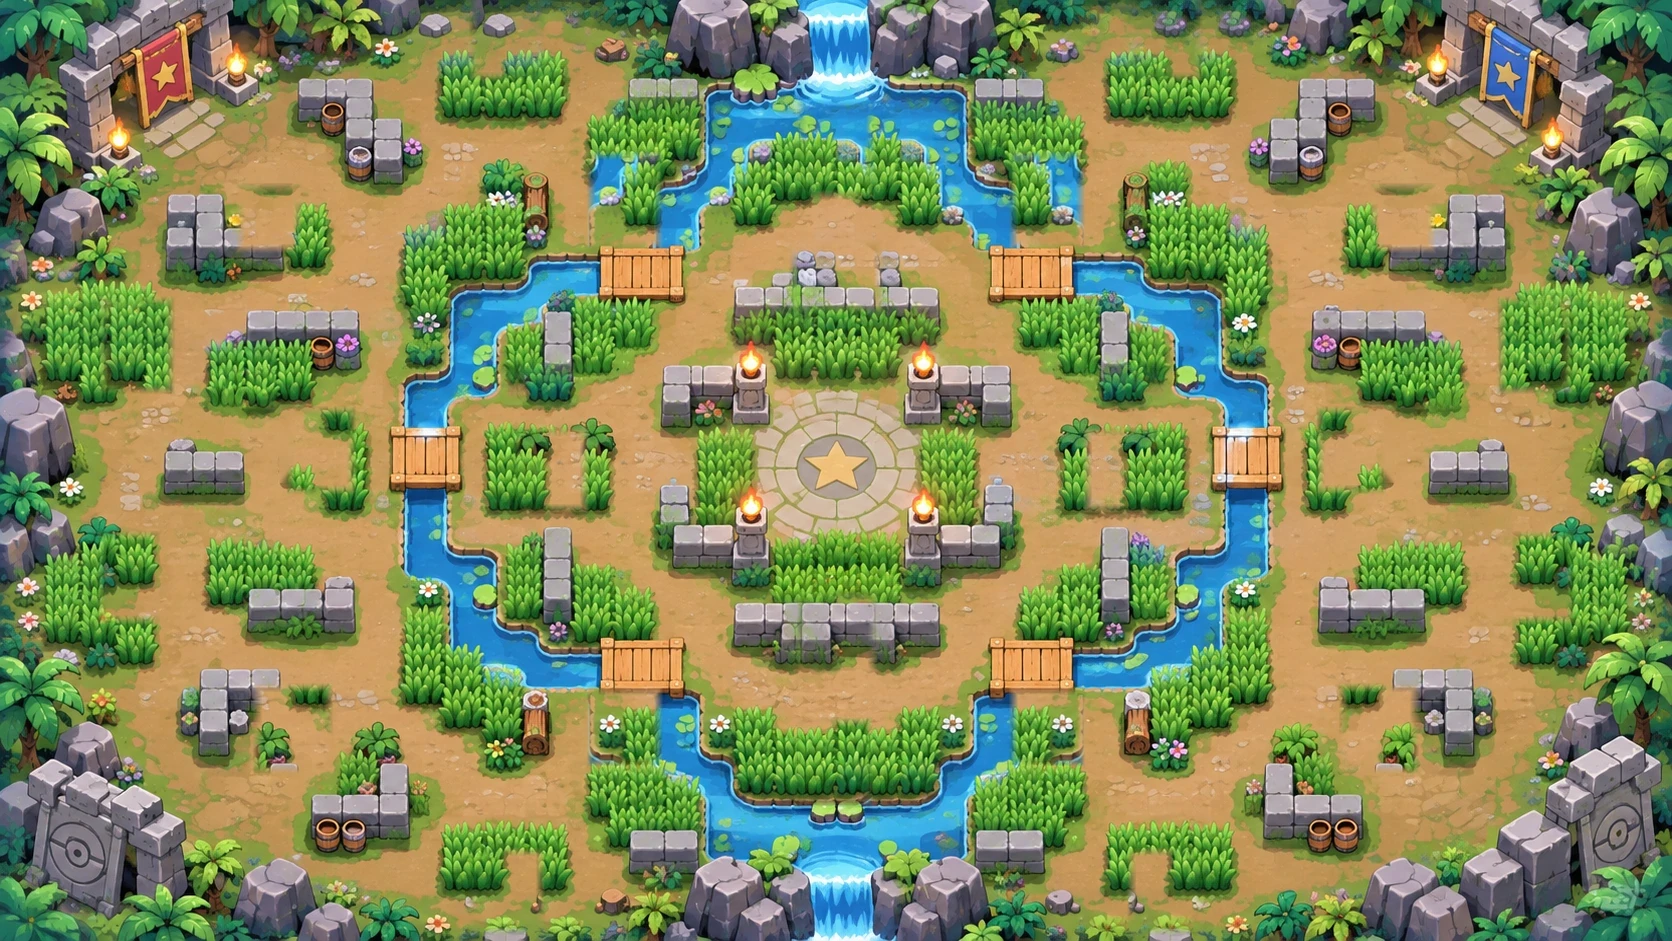
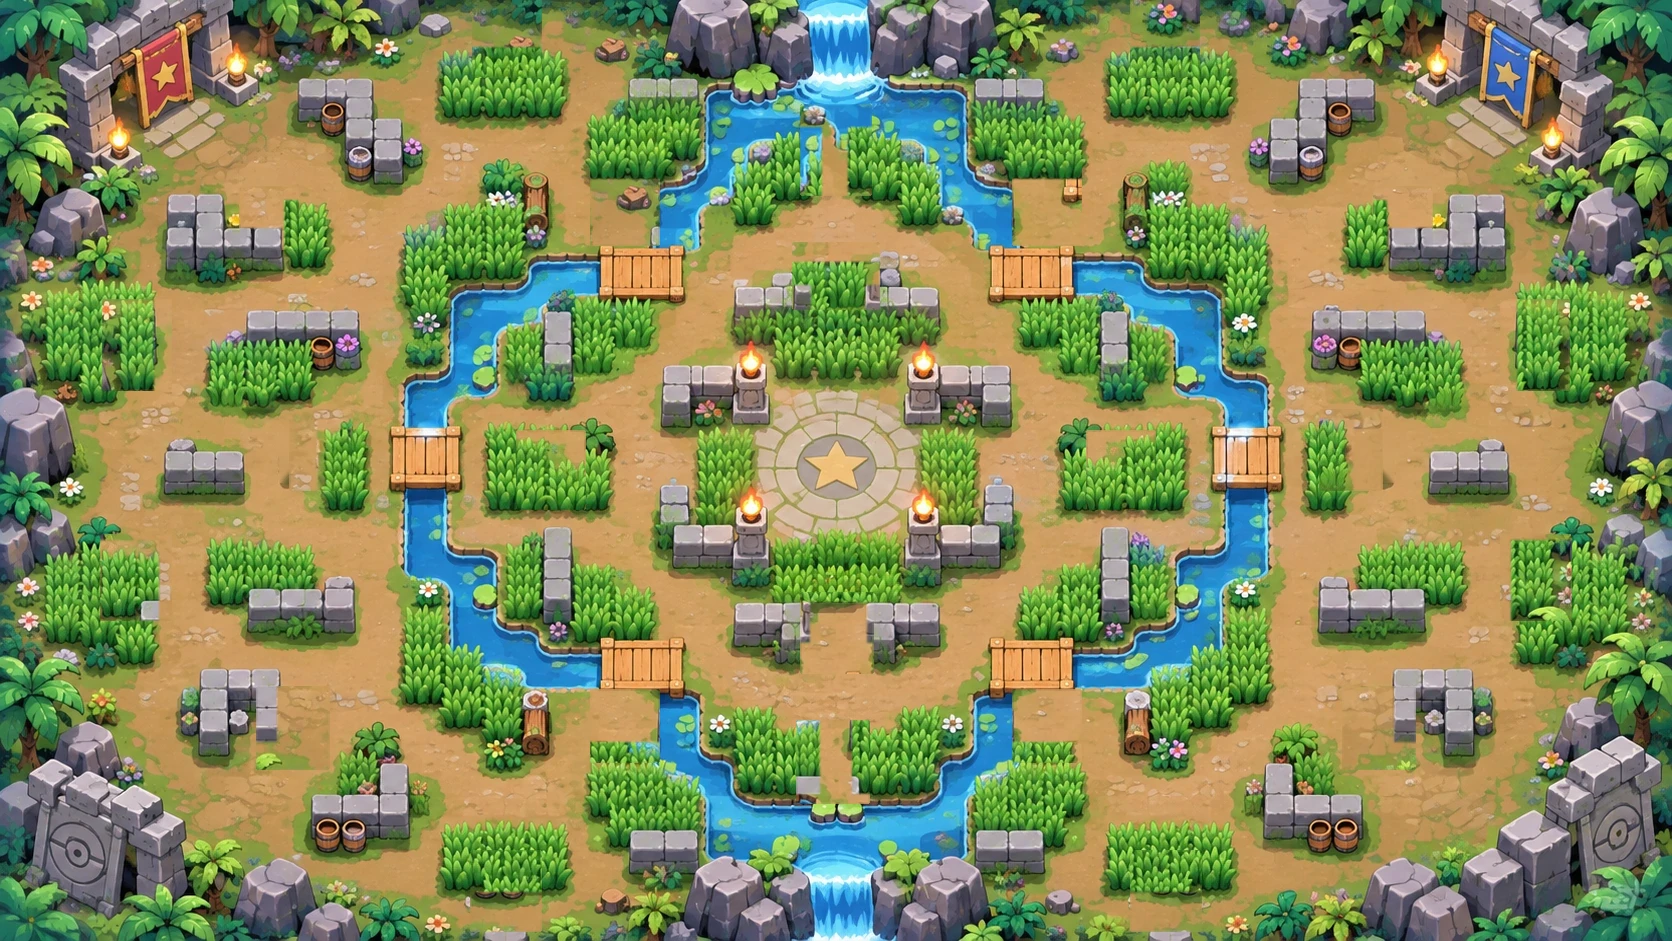
맵 얼룩 다시 그림(구조물·충돌 유지, 돌담/풀/흙 종류별로), 모바일 길게 누르기·확대·선택·콜아웃 막기, 기섭 추적 하트 2발, PvE 적 풀숲 무적 버그 수정, 보스 5회 평균 측정, 버그 목록
Claude-Session: https://claude.ai/code/session_01RNFJUrew5q1sX3kwPwRrNZ

diff --git a/js/ui/touch.js b/js/ui/touch.js
@@ -352,11 +352,26 @@ document.querySelector("#charApply").onclick = () => {
 };
 
 // 길게 누르기 메뉴(복사·붙여넣기·이미지 저장)와 텍스트 선택 막기. 메뉴 패널의 선택 상자는 그대로 동작
-const allowNative = (t) => t && t.closest && t.closest("select, option, input, #menuPanel");
-for (const ev of ["contextmenu", "selectstart"]) {
+const allowNative = (t) => t && t.closest && t.closest("select, option, input, textarea, #menuPanel");
+const inGameArea = (t) => t && t.closest && t.closest("#arena, #touch");
+for (const ev of ["contextmenu", "selectstart", "dragstart"]) {
   document.addEventListener(ev, (e) => {
-    if (document.body.classList.contains("mobile") && !allowNative(e.target)) e.preventDefault();
+    if ((document.body.classList.contains("mobile") || inGameArea(e.target)) && !allowNative(e.target)) e.preventDefault();
   });
+}
+// iOS Safari: 핀치 확대 제스처 (viewport 설정을 무시하므로 직접 막음)
+for (const ev of ["gesturestart", "gesturechange", "gestureend"]) document.addEventListener(ev, (e) => e.preventDefault(), { passive: false });
+// 두 번 탭 확대 (iOS 일부 버전은 touch-action 만으로 안 막힘)
+document.addEventListener("dblclick", (e) => {
+  if (inGameArea(e.target) && !allowNative(e.target)) e.preventDefault();
+}, { passive: false });
+// 조작 버튼·조이스틱·캔버스: 터치 기본 동작(길게 누르기 메뉴·돋보기·스크롤·확대) 막기. 포인터 이벤트(조작)는 그대로 옴
+const isControl = (t) => t && t.closest && t.closest("#touch button, #touch .stick, #arena canvas");
+for (const ev of ["touchstart", "touchmove"]) {
+  document.addEventListener(ev, (e) => {
+    if (isControl(e.target) && e.cancelable) e.preventDefault();
+    else if (ev === "touchmove" && e.touches.length > 1 && e.cancelable) e.preventDefault(); // 두 손가락 확대
+  }, { passive: false });
 }
 
 // 수류탄 버튼 (소모품, 최대 3개)

diff --git a/css/game.css b/css/game.css
@@ -400,3 +400,17 @@ body.mobile #skillBar, body.lobbyOpen #skillBar, body.titleOpen #skillBar { disp
 #touch #ultBtn.ready { background: radial-gradient(circle at 50% 45%, #7a3fe0 0 58%, transparent 60%), conic-gradient(#ffd23f 100%, #ffd23f 0); box-shadow: 0 0 16px #ffd23f, 0 0 4px #fff; animation: ult-ready 1s ease-in-out infinite; }
 @keyframes ult-ready { 50% { box-shadow: 0 0 26px #ffd23f, 0 0 8px #fff; } }
 #touch #summonBtn, #touch #bearHeal { white-space: pre-line; line-height: 1.15; }
+
+/* ===== 게임 조작 영역: 브라우저 기본 동작 막기 (iOS Safari · Android Chrome) =====
+   - 두 번 탭 확대·핀치 확대: touch-action (조작부 none, 나머지 manipulation) + iOS gesture* 이벤트 (js/ui/touch.js)
+   - 텍스트 선택·복사 메뉴·길게 누르기 콜아웃·이미지 저장/끌기: user-select, -webkit-touch-callout, -webkit-user-drag
+   - 스크롤·당겨서 새로고침·튕김: overscroll-behavior + 조작부 touchmove 기본 동작 막기 */
+html, body { touch-action: manipulation; overscroll-behavior: none; -webkit-text-size-adjust: 100%; }
+#arena, #arena canvas, #touch, #touch * {
+  -webkit-user-select: none;
+  user-select: none;
+  -webkit-touch-callout: none;
+  -webkit-tap-highlight-color: transparent;
+}
+#arena canvas, #touch, #touch button, #touch .stick { touch-action: none; }
+#arena img, #touch img, .btn img { -webkit-user-drag: none; user-drag: none; -webkit-touch-callout: none; pointer-events: none; }

diff --git a/js/data/skills.js b/js/data/skills.js
@@ -38,7 +38,7 @@ const SKILL_DATA = {
   runner: { // 기섭
     q: { name: "나 좀 봐라!", cd: 6, dur: 2, cost: 50, speed: 1.6, aim: "none", text: "자신감 게이지 {cost} 사용, {dur}초간 이동속도 ×{speed}" },
     e: { name: "비켜 내가 간다", cd: 8, dmg: 400, dmgRun: 600, dashT: 0.22, range: 124, aim: "dir", move: true, preview: "line", width: 76, text: "돌진 태클 {dmg} 피해와 넉백 (질주 중 {dmgRun}), 벽에 부딪히면 멈춤" },
-    r: { name: "나란 남자", pose: 0.6, dur: 5, tick: 0.3, hearts: 6, dmg: 90, slow: 1, range: 300, speed: 420, homing: 1, homeTurn: 2.2, homeRange: 320, aim: "none", text: "하트 포즈 후 {dur}초간 사방으로 하트 발사 (매번 {homing}발은 가까운 적을 약하게 추적), 한 발 {dmg} 피해와 둔화 (이동·공격 가능)" },
+    r: { name: "나란 남자", pose: 0.6, dur: 5, tick: 0.3, hearts: 6, dmg: 90, slow: 1, range: 300, speed: 420, homing: 2, homeTurn: 2.2, homeRange: 320, aim: "none", text: "하트 포즈 후 {dur}초간 사방으로 하트 발사 (매번 {homing}발은 가까운 적을 약하게 추적), 한 발 {dmg} 피해와 둔화 (이동·공격 가능)" },
     passive: { name: "역시 나야", per: 6, max: 100, text: "{per}px 이동할 때마다 자신감 게이지 1 충전 (최대 {max})" },
   },
   octo: { // 상훈

diff --git a/js/engine/world.js b/js/engine/world.js
@@ -29,7 +29,8 @@ const inBush = (a) => {
   return a._bush;
 };
 // 보임(자동 조준·자동 타겟·화면 표시): 은신 중이면 가까워도 안 보임 (풀숲은 예전처럼 75 이내·노출 시 보임)
-const seenIgnoringStealth = (a, b) => !b.max || !(a.ink > 0 && dist(a, b) > 110) && ((!inBush(b) || inBush(a)) || dist(a, b) < 75 || b.reveal > 0);
+// PvE 적(웨이브·무한 생존 몬스터)은 풀숲에 숨지 않음: 화면에 그려지므로 조준·피격도 되어야 함 (예전엔 풀숲 속 보스가 투사체에 안 맞음)
+const seenIgnoringStealth = (a, b) => !b.max || !(a.ink > 0 && dist(a, b) > 110) && (b.mob || (!inBush(b) || inBush(a)) || dist(a, b) < 75 || b.reveal > 0);
 const visible = (a, b) => !b.max || !(b.stealth > 0) && seenIgnoringStealth(a, b);
 // 성능: 임시 배열 없이 같은 순서로 5점 검사
 const terrain = (x, y, r = 16) => wet(x, y) || wet(x + r, y) || wet(x - r, y) || wet(x, y + r) || wet(x, y - r);

diff --git a/index.html b/index.html
@@ -2,7 +2,7 @@
 <html lang="ko">
 <head>
   <meta charset="utf-8">
-  <meta name="viewport" content="width=device-width, initial-scale=1, maximum-scale=1, viewport-fit=cover">
+  <meta name="viewport" content="width=device-width, initial-scale=1, maximum-scale=1, user-scalable=no, viewport-fit=cover">
   <title>Battle Lab</title>
   <link rel="preconnect" href="https://fonts.googleapis.com">
   <link rel="stylesheet" href="https://fonts.googleapis.com/css2?family=Jua&display=swap">

diff --git a/js/data/pokemon.js b/js/data/pokemon.js
@@ -86,5 +86,5 @@ for (const d of PET_DEX) {
 // 버튼·카드용: 그림이 있으면 <img>, 없으면 아이콘 글자
 function petIconHTML(id, cls = "pet-art") {
   const im = petArt[id];
-  return im ? `<img class="${cls}" src="${im.src}" alt="">` : `<strong>${mons[id][1]}</strong>`;
+  return im ? `<img class="${cls}" src="${im.src}" alt="" draggable="false">` : `<strong>${mons[id][1]}</strong>`;
 }

diff --git a/tests/mobile_input.py b/tests/mobile_input.py
@@ -1,0 +1,53 @@
+"""모바일 조작 영역 브라우저 기본 동작 차단 테스트 (Chromium 모바일 에뮬레이션)
+길게 누르기(1.5초) 연속 공격 중: 텍스트 선택 없음, contextmenu/selectstart/dragstart 막힘, 확대 없음, 조작 정상"""
+import pathlib, sys
+from playwright.sync_api import sync_playwright
+f = sys.argv[1] if len(sys.argv) > 1 else 'index.html'
+url = pathlib.Path(f).resolve().as_uri()
+fails = 0
+def ok(n, c, x=''):
+    global fails
+    fails += not c
+    print(('PASS ' if c else 'FAIL ') + n, x)
+with sync_playwright() as pw:
+    b = pw.chromium.launch(executable_path='/usr/bin/google-chrome')
+    for name, vp in [('가로', (844, 390)), ('세로회전', (390, 844))]:
+        pg = b.new_context(viewport={'width': vp[0], 'height': vp[1]}, has_touch=True, is_mobile=True, device_scale_factor=2).new_page()
+        errs = []
+        pg.on('pageerror', lambda e: errs.append(str(e)))
+        pg.goto(url); pg.wait_for_timeout(1500); pg.evaluate('closeTitle()')
+        pg.evaluate('openLobby(); lobbySel="suit"; document.querySelector("#lobbyStart").click()'); pg.wait_for_timeout(300)
+        pg.evaluate('god=true; window.__ev={}; for (const ev of ["contextmenu","selectstart","dragstart","dblclick"]) document.addEventListener(ev, (e)=>{ __ev[ev]=e.defaultPrevented; }, {capture:false});')
+        cdp = pg.context.new_cdp_session(pg)
+        def touch(t, pts): cdp.send('Input.dispatchTouchEvent', {'type': t, 'touchPoints': pts})
+        c = pg.evaluate('(()=>{let r=document.querySelector("#atk").getBoundingClientRect();return [r.x+r.width/2,r.y+r.height/2]})()')
+        mv = pg.evaluate('(()=>{let r=document.querySelector("#mv").getBoundingClientRect();return [r.x+r.width/2,r.y+r.height/2]})()')
+        # 1) 공격 버튼 1.5초 누르기 + 동시에 이동 (멀티터치)
+        touch('touchStart', [{'x': c[0], 'y': c[1], 'id': 1}])
+        touch('touchStart', [{'x': c[0], 'y': c[1], 'id': 1}, {'x': mv[0], 'y': mv[1], 'id': 2}])
+        touch('touchMove', [{'x': c[0], 'y': c[1], 'id': 1}, {'x': mv[0] + 30, 'y': mv[1], 'id': 2}])
+        x0 = pg.evaluate('[p.x,p.y]'); pg.wait_for_timeout(1500)
+        st = pg.evaluate('[aiming, window.getSelection().toString(), visualViewport.scale, [p.x,p.y]]')
+        # 길게 누를 때 브라우저가 보내는 contextmenu 를 직접 쏴서 막히는지
+        cm = pg.evaluate('(()=>{const e=new MouseEvent("contextmenu",{bubbles:true,cancelable:true}); document.querySelector("#atk").dispatchEvent(e); return e.defaultPrevented})()')
+        ss = pg.evaluate('(()=>{const e=new Event("selectstart",{bubbles:true,cancelable:true}); document.querySelector("#atk").dispatchEvent(e); return e.defaultPrevented})()')
+        dg = pg.evaluate('(()=>{const e=new Event("dragstart",{bubbles:true,cancelable:true}); (document.querySelector("#touch img")||document.querySelector("#atk")).dispatchEvent(e); return e.defaultPrevented})()')
+        db = pg.evaluate('(()=>{const e=new MouseEvent("dblclick",{bubbles:true,cancelable:true}); document.querySelector("#atk").dispatchEvent(e); return e.defaultPrevented})()')
+        ts = pg.evaluate('(()=>{const t=new Touch({identifier:9,target:document.querySelector("#atk"),clientX:1,clientY:1}); const e=new TouchEvent("touchstart",{bubbles:true,cancelable:true,touches:[t],changedTouches:[t]}); document.querySelector("#atk").dispatchEvent(e); return e.defaultPrevented})()')
+        touch('touchEnd', [])
+        css = pg.evaluate('(()=>{const s=getComputedStyle(document.querySelector("#atk")); return [s.userSelect||s.webkitUserSelect, s.webkitTouchCallout, s.touchAction]})()')
+        ok(f'[{name}] 공격 길게 누르기: 연속 공격 유지 + 이동 동시 (멀티터치)', st[0] and st[3] != x0, st)
+        ok(f'[{name}] 텍스트 선택 없음 / 화면 확대 없음', st[1] == '' and st[2] == 1, st)
+        ok(f'[{name}] 길게 누르기 메뉴·선택 시작·이미지 끌기·두 번 탭 확대 막힘', cm and ss and dg and db, (cm, ss, dg, db))
+        ok(f'[{name}] 조작 버튼 touchstart 기본 동작 막힘 (iOS 콜아웃·돋보기)', ts)
+        ok(f'[{name}] CSS: user-select none, touch-callout none, touch-action none', css[0] == 'none' and css[2] == 'none', css)
+        # 2) 드래그 조준은 그대로
+        touch('touchStart', [{'x': c[0], 'y': c[1], 'id': 1}]); touch('touchMove', [{'x': c[0] - 50, 'y': c[1], 'id': 1}]); pg.wait_for_timeout(80)
+        aim = pg.evaluate('!!manualAim && !manualAim.cancel'); touch('touchEnd', []); pg.wait_for_timeout(50)
+        ok(f'[{name}] 끌어서 직접 조준 정상', aim)
+        # 3) 패널 스크롤은 막지 않음 (싱글 미션 목록)
+        pg.evaluate('openLobby(); openSinglePanel()'); pg.wait_for_timeout(200)
+        ok(f'[{name}] 메뉴 패널은 기본 스크롤 허용(조작부만 막음)', pg.evaluate('(()=>{const t=new Touch({identifier:8,target:document.querySelector("#missionList"),clientX:1,clientY:1}); const e=new TouchEvent("touchmove",{bubbles:true,cancelable:true,touches:[t],changedTouches:[t]}); document.querySelector("#missionList").dispatchEvent(e); return !e.defaultPrevented})()'))
+        ok(f'[{name}] 에러 없음', not errs, errs)
+    b.close()
+print('ALL PASS' if not fails else f'{fails} FAIL')

diff --git a/tools/map_smudge_fix.py b/tools/map_smudge_fix.py
@@ -1,0 +1,68 @@
+"""맵 그림의 흐릿한 얼룩(상자를 지운 자국) 24곳을 선명하게 다시 그림.
+원본: docs/art_backup/jungle_before_smudge_fix.webp → assets/maps/jungle.webp
+얼룩 안 픽셀마다 무엇이어야 하는지 정함: 충돌 벽 칸 = 돌담 / 풀숲 칸 = 풀 / 나머지 = 흙
+→ 종류별로, 얼룩 밖의 같은 종류 픽셀만 있는 근처 자리에서 무늬를 가져와 채움 (경계가 가장 잘 이어지는 자리)
+구조물 위치·크기·충돌 판정은 바꾸지 않음."""
+import json, re, sys
+import numpy as np, cv2
+ROOT = __import__('pathlib').Path(__file__).resolve().parent.parent
+src = sys.argv[1] if len(sys.argv) > 1 else str(ROOT / 'docs/art_backup/jungle_before_smudge_fix.webp')
+dst = sys.argv[2] if len(sys.argv) > 2 else str(ROOT / 'assets/maps/jungle.webp')
+im = cv2.imread(src).astype(np.float32); H, W = im.shape[:2]
+mp = (ROOT / 'js/data/maps/jungle.js').read_text()
+WW, WH = int(re.search(r'width:\s*(\d+)', mp).group(1)), int(re.search(r'height:\s*(\d+)', mp).group(1))
+sx, sy = W / WW, H / WH
+walls = json.loads(re.search(r'walls:\s*(\[\[.*?\]\])', mp, re.S).group(1))
+bushes = json.loads(re.search(r'bushes:\s*(\[\[.*?\]\])', mp, re.S).group(1))
+cls = np.zeros((H, W), np.uint8)  # 0 흙, 1 풀, 2 돌담
+for x, y, w, h in bushes: cls[int(y*sy):int((y+h)*sy), int(x*sx):int((x+w)*sx)] = 1
+for x, y, w, h in walls: cls[int(y*sy):int((y+h)*sy), int(x*sx):int((x+w)*sx)] = 2
+# 실제 색으로 보정: 풀숲 칸 안이라도 흙색이면 흙 (칸이 넉넉하게 잡혀 있으므로)
+hsv = cv2.cvtColor(im.astype(np.uint8), cv2.COLOR_BGR2HSV).astype(int)
+green = (hsv[..., 0] > 28) & (hsv[..., 0] < 80) & (hsv[..., 1] > 90)
+L = [(478,0,58,72),(245,192,48,52),(108,305,58,80),(295,415,52,70),(596,160,58,80),(522,436,58,68),(106,540,60,75),(262,692,62,72),(476,856,60,70),(596,695,58,62)]
+C = [(806,110,60,80),(798,248,76,56),(806,598,62,70),(802,726,62,72)]
+R = [(x-4, y-4, w+8, h+8) for x, y, w, h in L + [(W-x-w, y, w, h) for x, y, w, h in L] + C]
+bad = np.zeros((H, W), bool)
+for x, y, w, h in R: bad[max(0,y-6):y+h+6, max(0,x-6):x+w+6] = True
+# 얼룩 밖에서 본 실제 종류 (돌담은 충돌 칸, 풀은 칸+색)
+real = np.where(cls == 2, 2, np.where((cls == 1) & green, 1, 0)).astype(np.uint8)
+out = im.copy(); M = 8
+for x, y, w, h in R:
+    x0, y0 = max(0, x), max(0, y); x1, y1 = min(W, x+w), min(H, y+h)
+    X0, Y0, X1, Y1 = max(0, x0-M), max(0, y0-M), min(W, x1+M), min(H, y1+M)
+    T = im[Y0:Y1, X0:X1]
+    inner = np.zeros((Y1-Y0, X1-X0), bool); inner[y0-Y0:y1-Y0, x0-X0:x1-X0] = True
+    want = cls[Y0:Y1, X0:X1].copy()
+    # 얼룩 안의 풀 칸: 칸 안이면 풀 (색은 얼룩이라 못 믿음)
+    want = np.where(inner, want, real[Y0:Y1, X0:X1])
+    fill = np.zeros_like(T); wsum = np.zeros(T.shape[:2], np.float32)
+    for k in np.unique(want[inner]):
+        tk = inner & (want == k)
+        ring = (~inner) & (want == k)
+        best = None
+        for dy in range(-150, 151, 2):
+            for dx in range(-220, 221, 2):
+                if abs(dx) < (x1-x0) and abs(dy) < (y1-y0): continue
+                a0, b0, a1, b1 = Y0+dy, X0+dx, Y1+dy, X1+dx
+                if a0 < 0 or b0 < 0 or a1 > H or b1 > W: continue
+                if bad[a0:a1, b0:b1][tk].any(): continue
+                if (real[a0:a1, b0:b1][tk] != k).mean() > (0.25 if k == 1 else 0.03): continue
+                S = im[a0:a1, b0:b1]
+                c = ((S - T) ** 2)[ring].mean() if ring.any() else 0
+                c += 4 * abs(dy) + 1 * abs(dx)
+                if best is None or c < best[0]: best = (c, dx, dy)
+        if best is None: print('no source', (x, y), k); continue
+        _, dx, dy = best
+        S = im[Y0+dy:Y1+dy, X0+dx:X1+dx]
+        m = cv2.GaussianBlur(tk.astype(np.float32), (5, 5), 0)  # 종류 경계 부드럽게
+        fill += S * m[..., None]; wsum += m
+    yy, xx = np.mgrid[Y0:Y1, X0:X1]
+    d = np.maximum(np.maximum(x0-xx, xx-(x1-1)), np.maximum(y0-yy, yy-(y1-1)))
+    a = np.clip(1 - d / M, 0, 1) * (wsum > 0.01)
+    f = fill / np.maximum(wsum, 1e-3)[..., None]
+    out[Y0:Y1, X0:X1] = f * a[..., None] + T * (1 - a[..., None])
+cv2.imwrite('/tmp/fix/fixed2.png', out.astype(np.uint8))
+from PIL import Image
+Image.open('/tmp/fix/fixed2.png').save(dst, 'WEBP', quality=90, method=6)
+print('saved', dst)

diff --git a/tools/measure_ult.py b/tools/measure_ult.py
@@ -11,7 +11,7 @@ import json, pathlib, sys
 from playwright.sync_api import sync_playwright
 f = sys.argv[1] if len(sys.argv) > 1 else 'dist/index.html'
 url = pathlib.Path(f).resolve().as_uri()
-CH = ['suit', 'summoner', 'support', 'runner', 'octo', 'stripe', 'soccer', 'bear']
+CH = sys.argv[3].split(',') if len(sys.argv) > 3 else ['suit', 'summoner', 'support', 'runner', 'octo', 'stripe', 'soccer', 'bear']
 JS = r'''
 window.M = {};
 M.setup = (ch, n, mode = "static") => {
@@ -69,6 +69,7 @@ M.boss = (ch, bossId) => {
   for (let i = 0; i < 400 && singleRun.phase !== "boss"; i++) update(1 / 60);
   const B = singleRun.boss; B.hp = B.max = 1e8; B.dummy = false; B.track = true;
   bots = bots.filter((b) => b === B);
+  B.x = 1236; B.y = 640; // 맵 가장자리 등장 위치 대신 가운데 (플레이어가 맵 밖으로 나가지 않게)
   p.x = B.x - 120; p.y = B.y; pet = null; ultPets = []; clones = [];
   M.cx = B.x; M.cy = B.y; M.mode = "boss";
   M.log = { dmg: 0, hits: 0, byTarget: new Map(), stun: 0 };
@@ -131,7 +132,8 @@ with sync_playwright() as pw:
             out[ch][n] = pg.evaluate('M.ult()')
         pg.evaluate(f'M.setup("{ch}", 5, "move")'); out[ch]['move5'] = pg.evaluate('M.ult()')
         pg.evaluate(f'M.setup("{ch}", 1, "far")'); out[ch]['far1'] = pg.evaluate('M.ult()')
-        out[ch]['boss'] = pg.evaluate(f'M.boss("{ch}", "bear")')
+        runs = [pg.evaluate(f'(Math.random = (() => {{ let s = {seed}; return () => (s = (s * 16807) % 2147483647) / 2147483647; }})(), M.boss("{ch}", "bear"))') for seed in (11, 22, 33, 44, 55)]
+        out[ch]['boss'] = {'avg': round(sum(r['dmg'] for r in runs) / len(runs)), 'min': min(r['dmg'] for r in runs), 'max': max(r['dmg'] for r in runs), 'runs': [r['dmg'] for r in runs]}
         pg.evaluate('endSingle(); reset()')
         if ch == 'summoner':
             for n in [1, 5, 10]:

diff --git a/docs/ULT_MEASURE.md b/docs/ULT_MEASURE.md
@@ -48,3 +48,21 @@
 - 현곤: 궁극기 포켓몬 피해로 궁극기가 다시 차지 않음 확인 (궁극기 직후 충전 0%)
 - *재한 보스: 실제 보스 AI 가 움직여서 실행마다 다를 수 있음 (2,000 / 500 관찰)
 - 경수 분신: 1개 대상 33타 = 이론 최대(4개 × 5초/0.6초 ≈ 33) → 손실 없음. 여러 대상일 때는 서로 다른 적에게 걸어가는 시간만큼 줄어듦
+
+---
+# 2차 (기섭 추적 하트 2발) + 보스 5회 평균
+
+- 기섭: 6발 중 2발 추적, 나머지 4발 회전 탄막, 피해 90 유지
+- 보스: 무한 생존 W5 정용 보스를 맵 가운데에 두고 실제 AI 로 5회(난수 시드 다르게) 측정한 평균. 측정 도구 버그 수정: 보스가 맵 가장자리에 나오면 플레이어가 맵 밖에 놓이던 문제
+- 버그 수정: PvE 적이 풀숲 안에 있으면 투사체에 안 맞던 문제 (배틀로얄 풀숲 숨기 규칙이 몬스터에도 적용되고 있었음)
+
+| 캐릭터 | 1개 | 5개 | 10개 | 움직이는 5개 | 먼 1개 | 보스 평균(5회) | 충전 |
+|---|---:|---:|---:|---:|---:|---:|---:|
+| 동기 | 2,100 | 3,500 | 7,700 | 3,500 | 0 | 1,950 | 15.1초 |
+| 현곤 | 3,528 | 4,284 | 5,274 | 4,779 | 3,186 | 3,528 | 17.1초 |
+| 은숙 | 1,300 | 5,200 | 6,500 | 3,300 | 0 | 1,300 | 13.9초 |
+| 기섭 | 810 (9) | 1,710 (19) | 3,240 (36) | 2,250 | 810 | 1,890 | 9.8초 |
+| 상훈 | 1,320 | 5,280 | 7,920 | 3,600 | 0 | 1,080 | 12.5초 |
+| 경수 | 2,970 | 2,250 | 3,060 | 1,800 | 2,520 | 2,250 | 9.1초 |
+| 재한 | 2,000 | 4,700 | 5,700 | 3,500 | 2,000 | 2,000 | 11.1초 |
+| 정용 | 1,400 | 7,000 | 10,000 | 4,600 | 1,400 | 1,400 | 13.6초 |

diff --git a/docs/BUGS.md b/docs/BUGS.md
@@ -1,0 +1,5 @@
+# 알려진 버그 (추후 수정)
+
+| # | 등록일 | 내용 | 상태 |
+|---|---|---|---|
+| B1 | 2026-11-25 | `tests/rules.py` 를 빌드 파일(dist/index.html)로 돌리면 "타이틀: 완성 이미지 그대로 표시 + TAP TO START 위치에 투명 버튼" 1건 실패. 원본(index.html)로는 통과, 변경 전 커밋도 같은 결과 → 빌드 파일(약 17MB) 로딩 시간과 타이틀 이미지 표시 타이밍 문제로 추정 | 미수정 |
